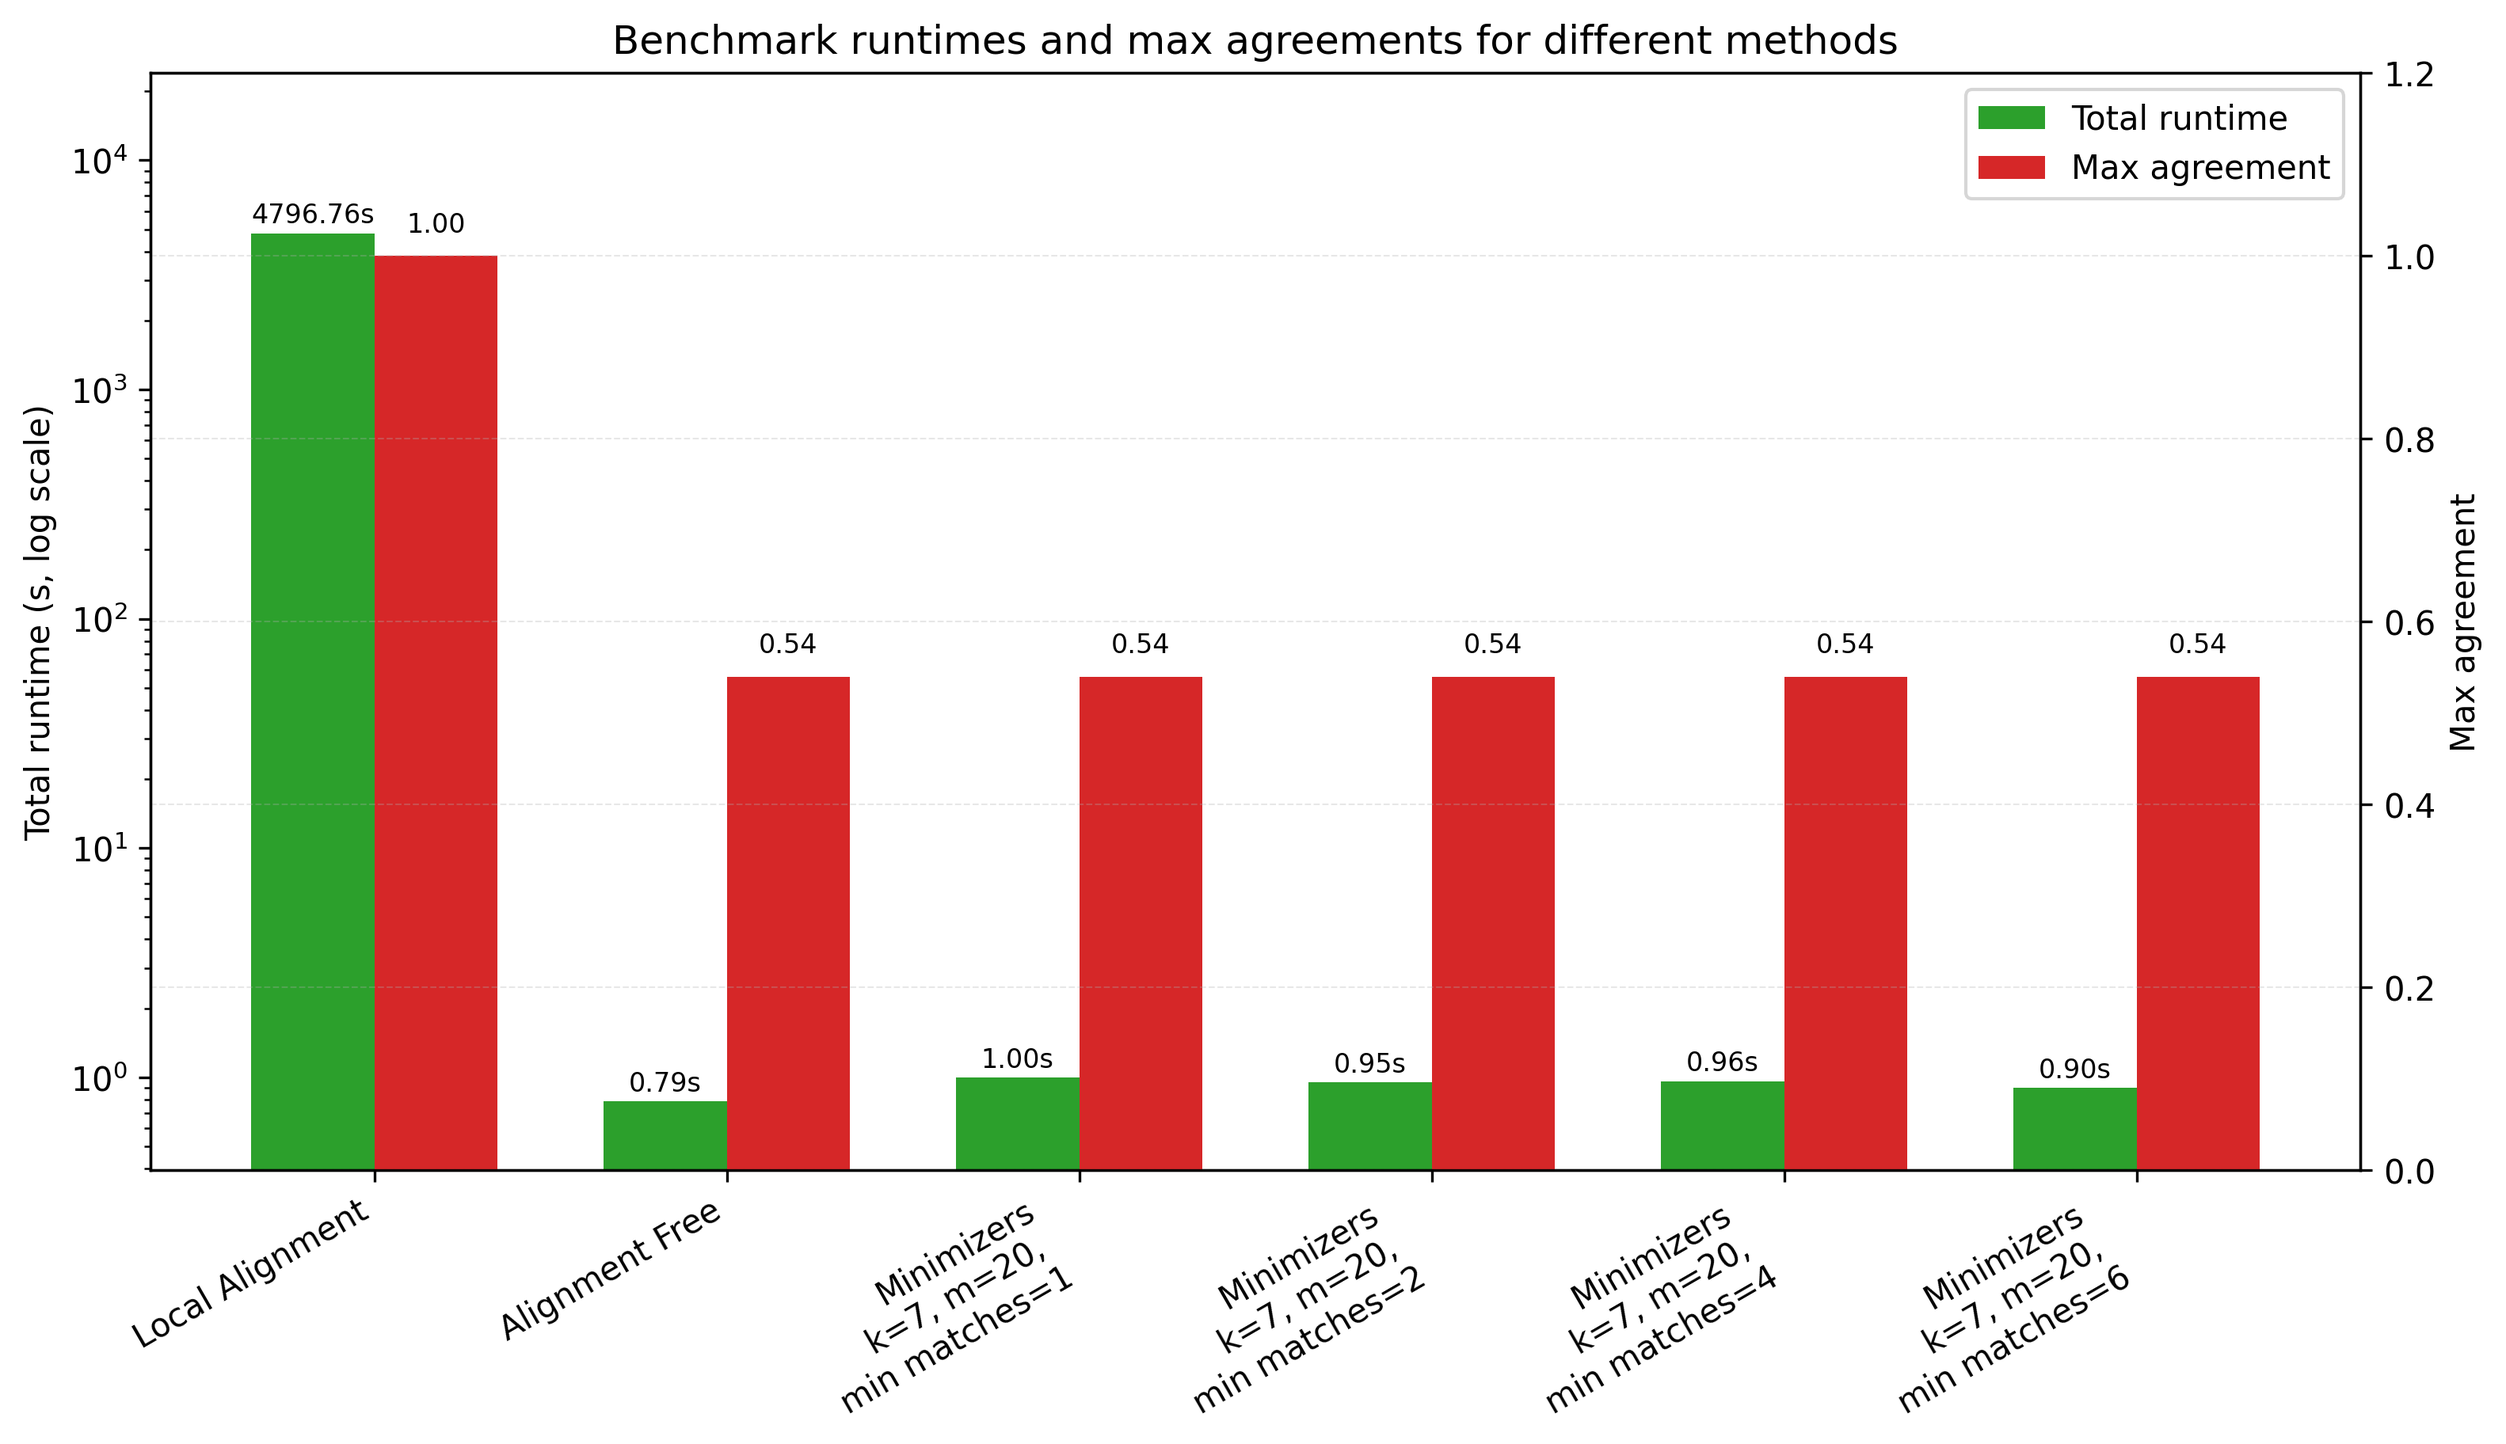
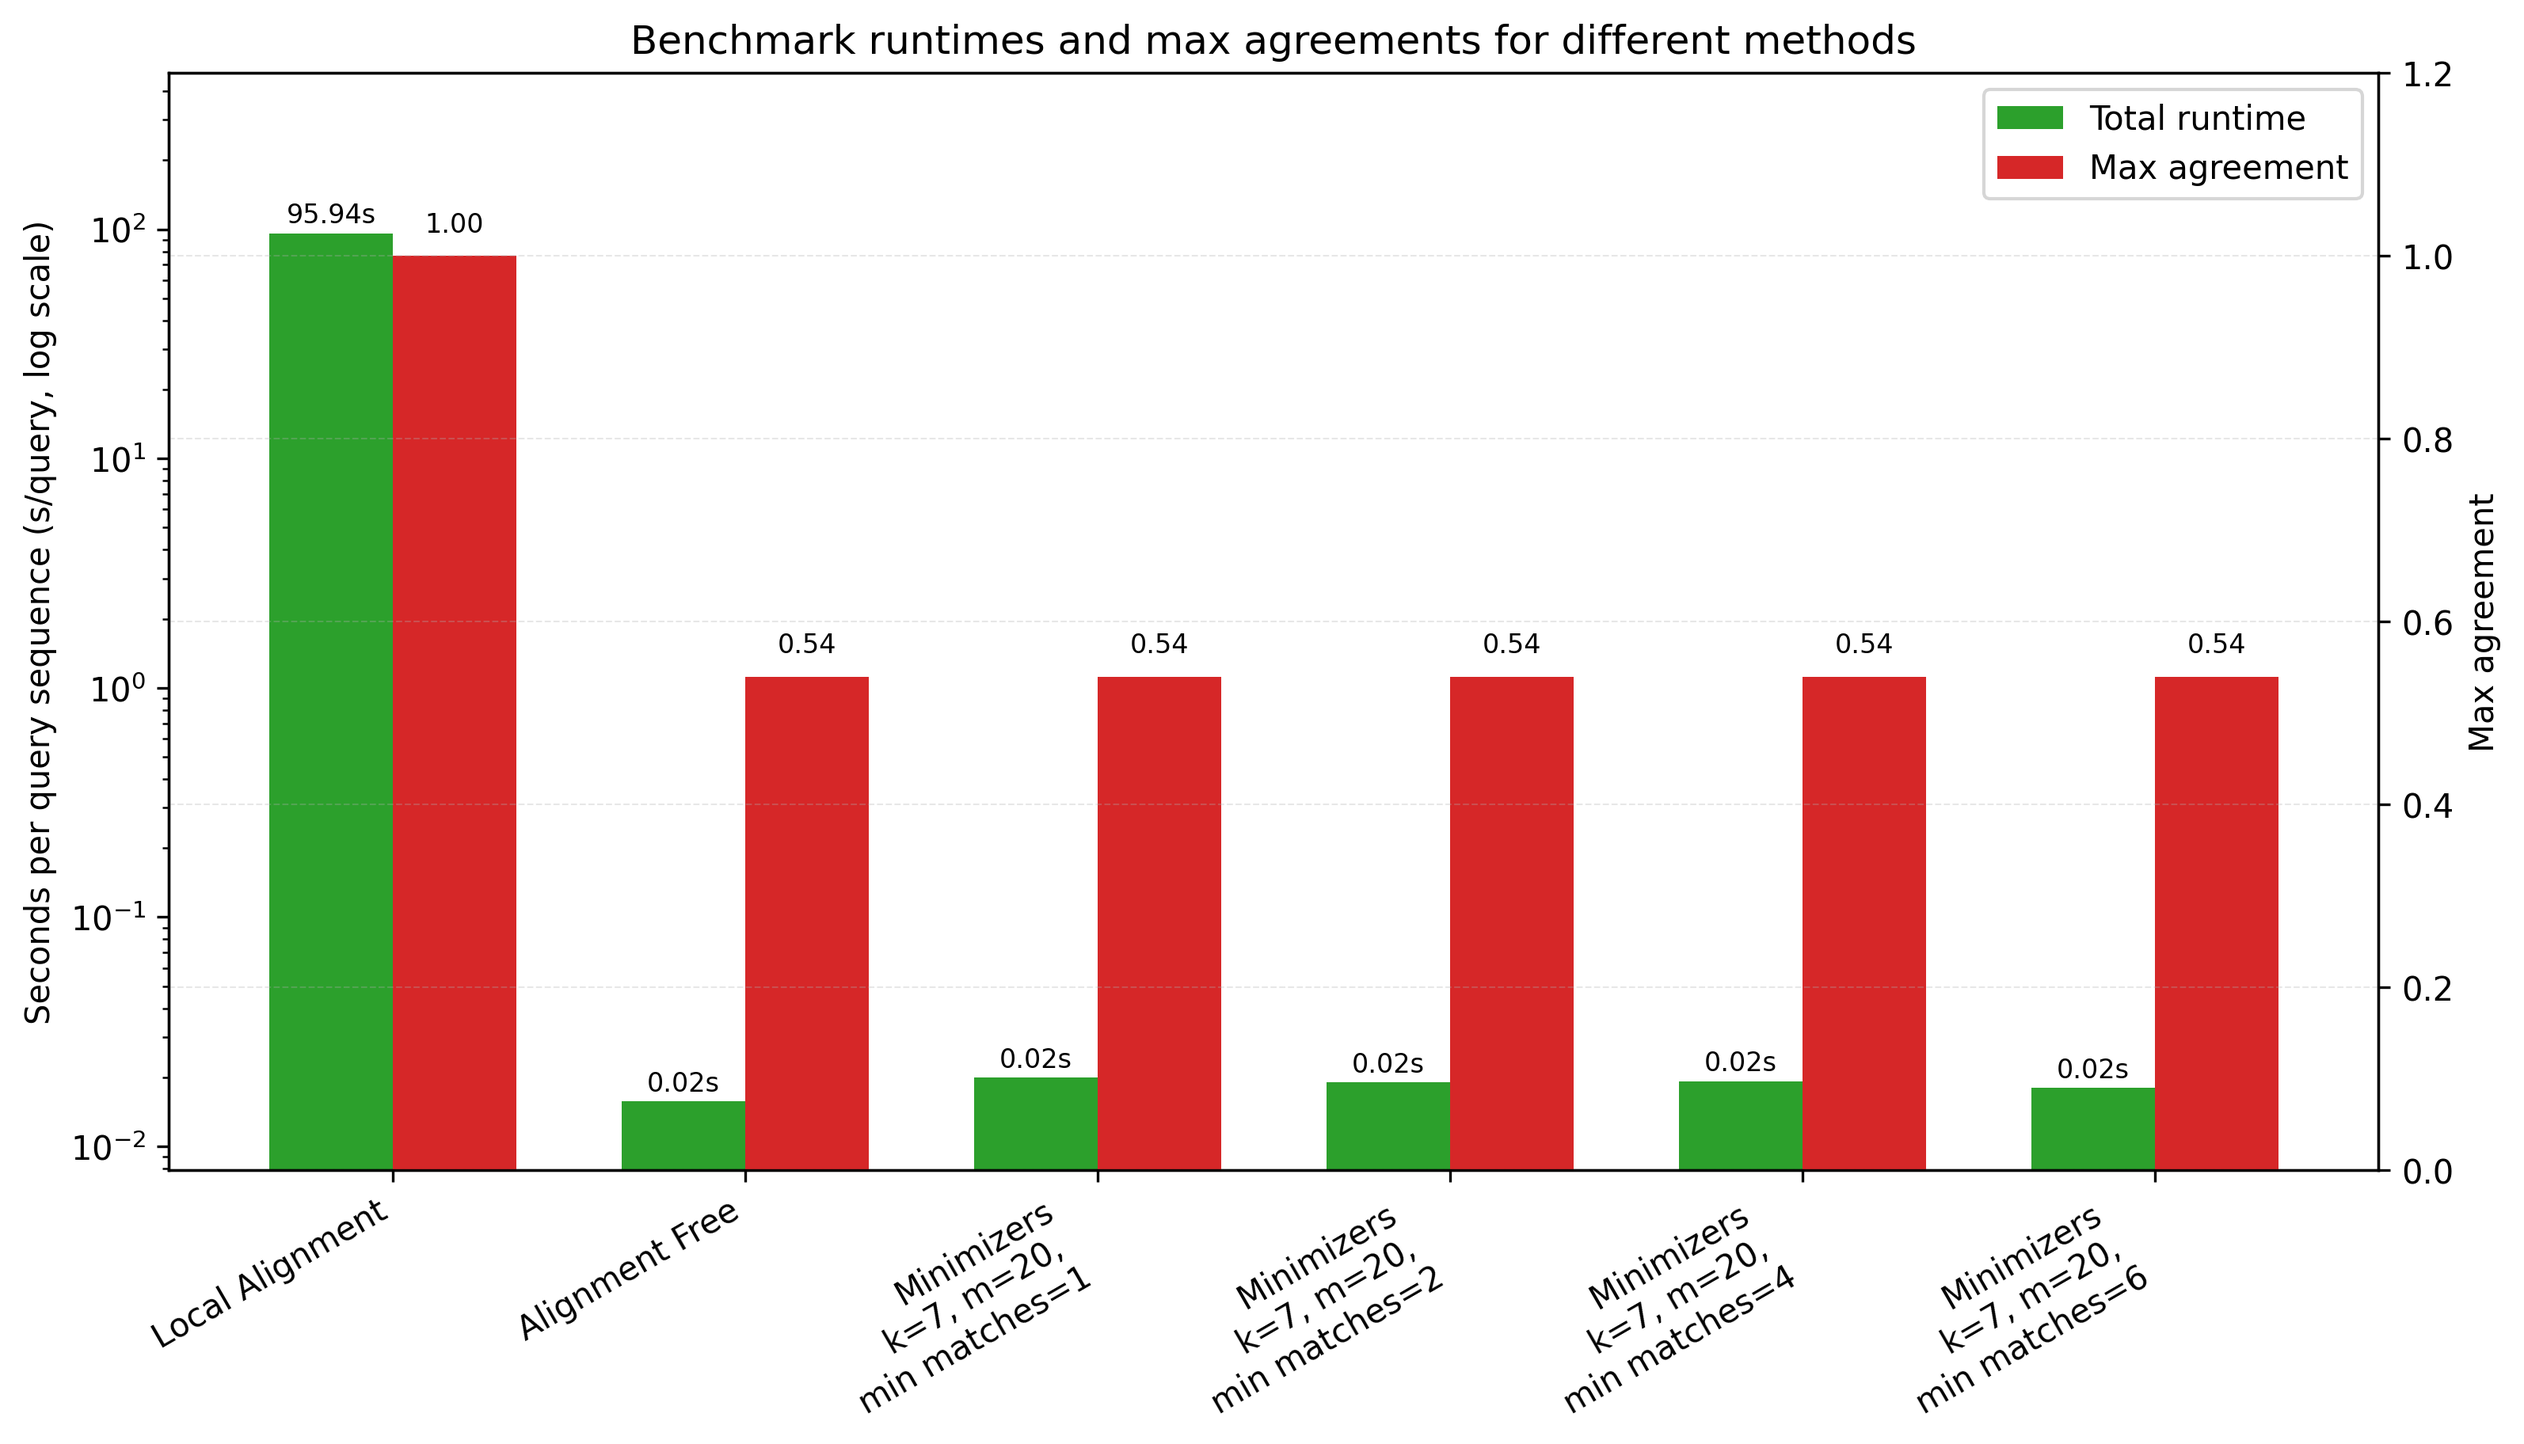
benchmark title

diff --git a/microbiome_test.py b/microbiome_test.py
@@ -444,7 +444,7 @@ def plot_benchmark_graph():
     for name, val in benchmark.items():
         duration, acc = float(val[0]), float(val[1])
         names.append(name)
-        durations.append(duration)
+        durations.append(duration/50)
         accuracies.append(acc)
 
     if len(durations) == 0:
@@ -459,7 +459,7 @@ def plot_benchmark_graph():
     # Blue bars: durations (log scale)
     bars1 = ax1.bar(pos - width/2, durations, width, color='tab:green', label='Total runtime')
     ax1.set_yscale('log')
-    ax1.set_ylabel("Total runtime (s, log scale)")
+    ax1.set_ylabel("Seconds per query sequence (s/query, log scale)")
     ax1.set_xticks(pos)
     ax1.set_ylim(min(durations) * 0.5, max(durations) * 5)
     ax1.set_xticklabels(names, rotation=30, ha='right')
